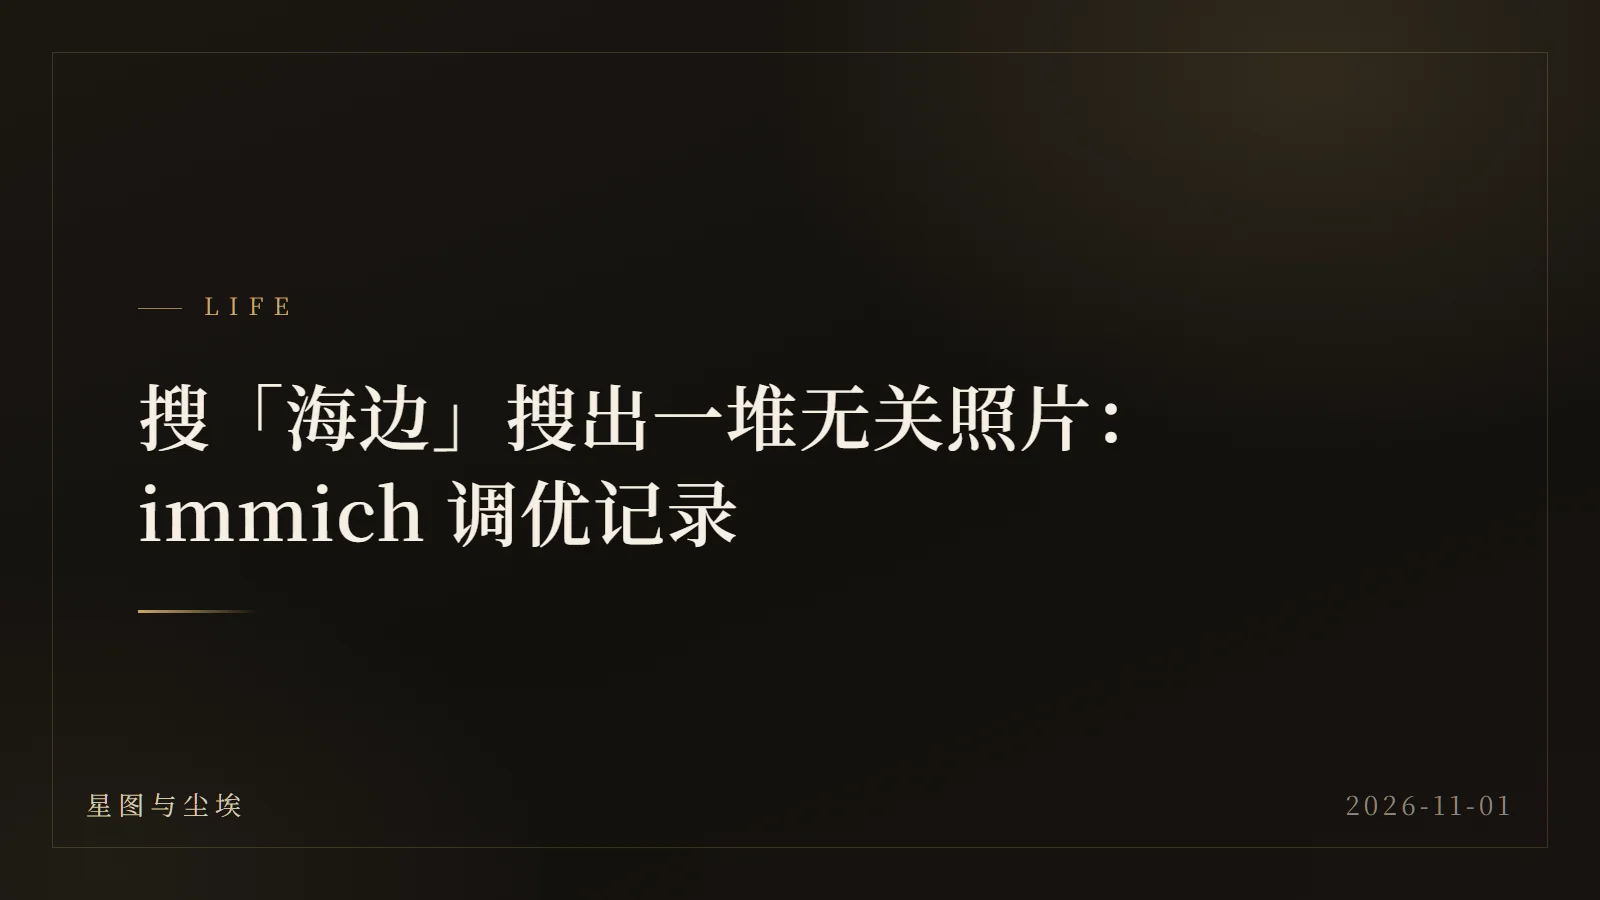
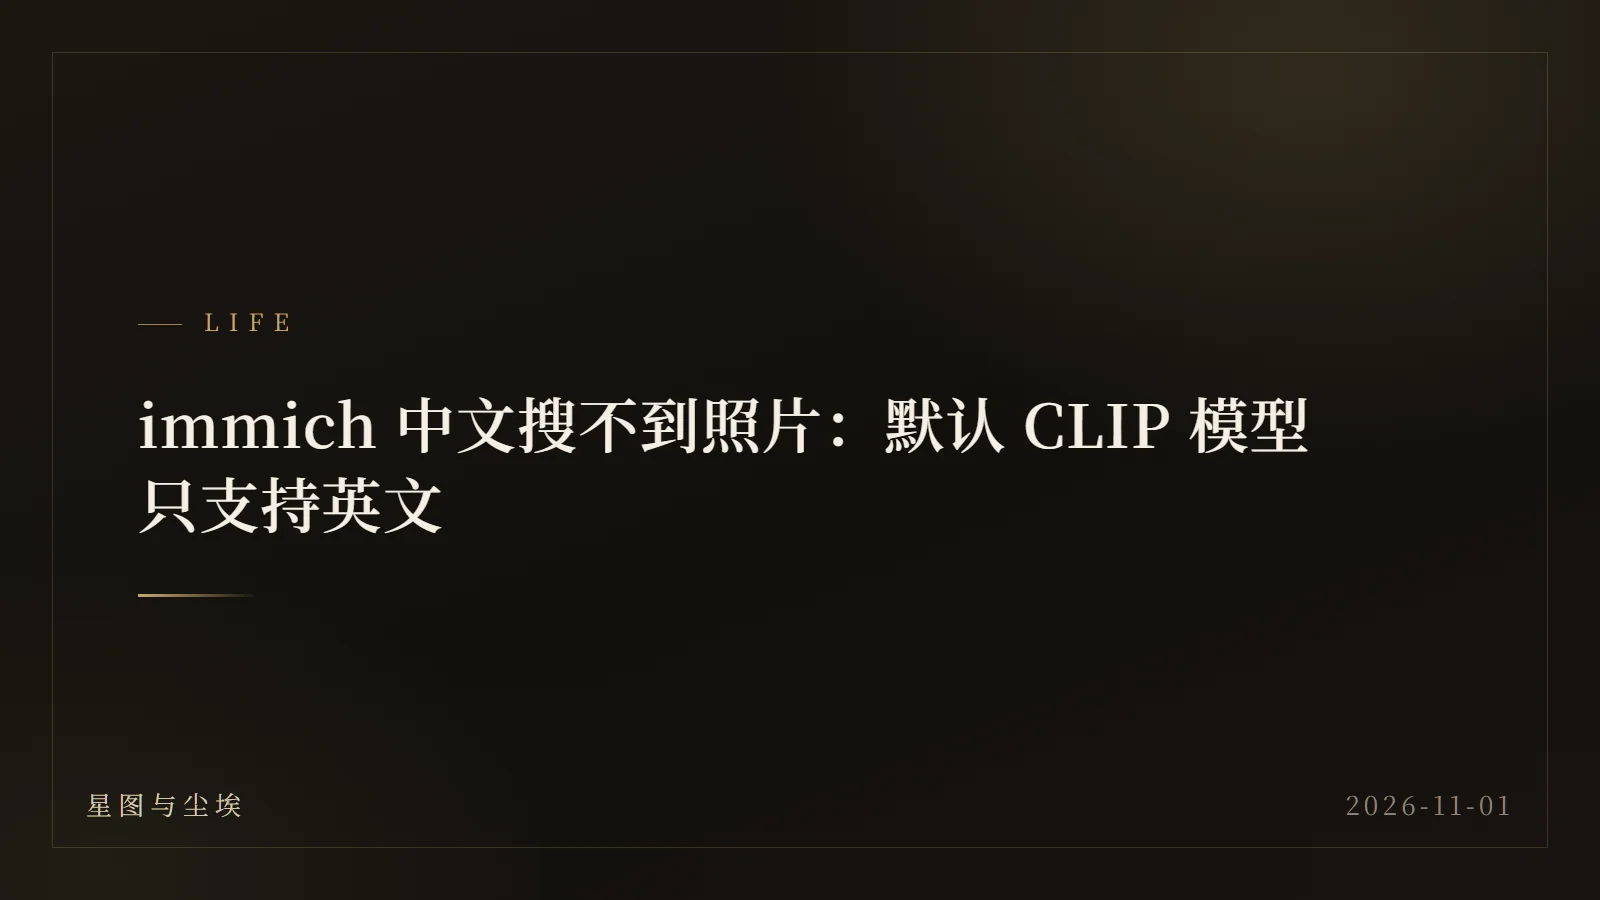
content: 重写《immich 中文搜不到照片》聚焦 CLIP 模型语言限制

Changed region(s): [[0.0625, 0.4044, 0.8125, 0.6222], [0.125, 0.3111, 0.1875, 0.3733], [0.0938, 0.6533, 0.1562, 0.6844]]

diff --git a/content/posts/life/immich-tuning-2026-11-01/index.md b/content/posts/life/immich-tuning-2026-11-01/index.md
@@ -1,88 +1,77 @@
 +++
-title = '搜「海边」搜出一堆无关照片：immich 调优记录'
-description = "4 核 N100 跑 immich：并发打满 CPU、硬件转码没开、CLIP 模型不懂中文。附官方基准和实测数据。"
+title = 'immich 中文搜不到照片：默认 CLIP 模型只支持英文'
+description = "中文搜「海边」全是无关照片，根因是默认加载的 CLIP 模型只有英文语料。换模型解决，附 4 核机器并发配置。"
 subtitle = ""
 date = 2026-11-01T23:10:00+08:00
 draft = false
 toc = true
 series = ['life']
-tags = ['immich', 'CLIP', 'OCR', '调优']
+tags = ['immich', 'CLIP', '中文搜索', '调优']
+featureimage = "featured.webp"
 +++
 
-## 起因
+中文搜「海边」出来一堆无关照片。不是索引没建好，不是中文分词有问题——**immich 默认加载的 CLIP 模型只支持英文**。
 
-手机传照片慢，搜「海边」出来一堆无关照片。查完发现两件事是同一个背景：4 核小机器被塞了太多活。
+`ViT-B-32__openai` 是 2021 年的原始 CLIP，训练语料纯英文。中文查询传进去，输出的向量本身就没有意义，检索结果自然是随机的。
 
-## 一、并发：默认值是为大机器准备的
+## 三秒自证
 
-`load average 30.51`，4 核，CPU 空闲 0%。数据库里的并发：
+同一个词，英文搜 `beach` 准确，中文搜「海边」混乱——即可判定为模型语言问题，与索引、标签、数据库无关。不需要翻日志。
 
-| 队列 | 原值 | immich 默认 | 改成 |
-|---|---|---|---|
-| faceDetection | 5 | 2 | 1 |
-| smartSearch | 5 | 2 | 1 |
-| **metadataExtraction** | 5 | 5 | **2** |
-| ocr | 4 | 1 | 1 |
+## 换模型
 
-隐蔽的一层：ML 容器只有 1 个 gunicorn worker，但内部开了 **24 个线程**（ONNX 每个模型各一套线程池）。加 `OMP_NUM_THREADS=3` 后降到 18。
+| 模型 | 中文 Recall | 单张耗时 | 维度 | 重建速度 |
+| --- | --- | --- | --- | --- |
+| nllb-clip-large-siglip | 79.7% | 75 ms | 768 | — |
+| XLM-Roberta-Large-ViT-H-14 | 75.22% | 39 ms | 1024 | — |
+| nllb-clip-base-siglip | 74.8% | 15 ms | 768 | 6.4 张/分 |
+| **XLM-Roberta-Base-ViT-B-32** | 65.7% | 3.2 ms | 512 | **43.7 张/分** |
 
-效果：缩略图 **5 张/分钟 → 54 张/分钟**，postgres 占用 65% → 1.2%。真正起作用的是 `metadataExtraction 5→2`。
+选最后一行：Recall 比最优模型低 14 个百分点，但全库重建 30 小时，对照组是 207 小时。
 
-## 二、硬件转码：设备给了，阀门没开
+两个实施细节：
 
-宿主机有 `/dev/dri/renderD128`，但容器没传。补上：
+1. **维度不用手工改**。当前表是 `vector(512)`，nllb 系列是 768 维，immich 会自动执行 `ALTER`（日志中可见 `Updating database CLIP dimension size`）。
+2. **慢 6.8 倍是可解释的**。nllb 输入 384px 对 224px（像素 2.9 倍），加 768 维索引（1.5 倍），理论 4.4 倍，实测 4.7 倍。
+
+换完中文搜索可用。
+
+## 顺带：上传慢
+
+同一台机器上还有第二个问题：手机上传慢到每分钟 5 张。`load average 30.51`，4 核，CPU 空闲 0%——瓶颈在缩略图生成任务的并发，不在网络。
+
+| 队列 | 原值 | immich 默认 | 改为 |
+| --- | --- | --- | --- |
+| `metadataExtraction` | 5 | 5 | **2** |
+| `faceDetection` | 5 | 2 | 1 |
+| `smartSearch` | 5 | 2 | 1 |
+| `ocr` | 4 | 1 | 1 |
+
+ML 容器只有 1 个 gunicorn worker，但内部开了 24 个线程（ONNX 为每个模型各建一套线程池），加 `OMP_NUM_THREADS=3` 后降到 18。
+
+结果：缩略图 **5 张/分钟 → 54 张/分钟**，postgres 占用 **65% → 1.2%**。
+
+**真正起作用的只有 `metadataExtraction` 从 5 降到 2**，其余三项是配合。降并发反而更快，省下的不是算力，是数据库写冲突——`load average 30.51` 而吞吐只有 5 张/分钟，就是线程互相抢占、postgres 卡在锁等待上的直接证据。
+
+## 硬件转码：设备接了，开关没开
+
+宿主机有 `/dev/dri/renderD128`，容器没传入。补齐：
 
 ```yaml
     devices: ["/dev/dri:/dev/dri"]
-    group_add: ["44", "992"]     # 写组名会报错，必须用数字 GID
+    group_add: ["44", "992"]     # 必须写数字 GID，写组名会报错
 ```
 
-验证通路：
+`ffmpeg.accel` 默认是 `Disabled`，还要在 **管理 → 设置 → 视频转码 → 硬件加速** 手动打开。这个配置项不在 `transcode` 下面，`transcode` 只是 `ffmpeg` 的内部字段。
 
-```bash
-ffmpeg -f lavfi -i testsrc -c:v h264_qsv -f null -
-# libva: va_openDriver() returns 0；退出码 0
-```
+## 4 核机器配置清单
 
-但 `ffmpeg.accel` 默认是 `Disabled`，还要在 **管理 → 设置 → 视频转码 → 硬件加速** 里打开。
-
-> 我一开始以为这个 key 在 `transcode` 下面，挖了源码才发现 `transcode` 是 `ffmpeg` 内部的字段。
-
-## 三、搜索不准：CLIP 模型不懂中文
-
-日志显示加载 `ViT-B-32__openai`——2021 年的原始 CLIP，纯英文训练。
-
-**自证方法**：英文搜 "beach" 准确、中文搜「海边」乱 → 100% 是模型语言问题，不用查索引。
-
-中文 Recall（官方基准）与实测：
-
-| 模型 | Recall | 耗时 | 维度 | 重建速度 |
-|---|---|---|---|---|
-| nllb-clip-large-siglip | 79.7% | 75ms | 768 | — |
-| XLM-Roberta-Large-ViT-H-14 | 75.22% | 39ms | 1024 | — |
-| nllb-clip-base-siglip | 74.8% | 15ms | 768 | 6.4 张/分 |
-| **XLM-Roberta-Base-ViT-B-32** | 65.7% | 3.2ms | 512 | **43.7 张/分** |
-
-两个坑：
-
-1. **维度**：表是 `vector(512)`，nllb 是 768 维。但 immich 会自动 `ALTER`（日志有 `Updating database CLIP dimension size`），不用手工改。
-2. **速度**：nllb 慢 6.8 倍。原因 384px vs 224px（像素 2.9 倍）+ 768 维索引（1.5 倍），理论 4.4 倍，实测 4.7 倍，对得上。
-
-最终选 65.7% 那个：质量差 9 点，但重建 30 小时 vs 207 小时。
-
-## 四、OCR：能搜图里的字
-
-已处理 59,946 张（75%）。搜索用 pg_trgm 模糊匹配：
-
-```sql
-f_unaccent(ocr_search.text) %>> f_unaccent(query)
-```
-
-实测命中：订阅 651 / Shorts 249 / 梦露 82 / 海边 60 / 5G 16,129（高频词等于没有）。中文可用，但识别错误会传下去（抽样有 `RUEICGE`、`③@Lii-31` 这种乱码）。这版只有 `PP-OCRv5_mobile`，更好的 v6 要 immich 3.3.0+。
-
-## 教训
-
-1. **默认并发是为服务器定的**，4 核上会把 CPU 打满，症状却表现为"上传慢"。
-2. **降并发反而快 10 倍**——省下的不是算力，是 postgres 写冲突。
-3. **「英文准中文乱」是模型语言问题的标准指纹**，换个语言搜一次就能定位。
-4. **三处靠读源码才查对**：`accel` 的位置、队列默认值、OCR 匹配方式。印象会骗人。
+| 项目 | 默认值 | 4 核建议 |
+| --- | --- | --- |
+| `metadataExtraction` 并发 | 5 | **2** |
+| `faceDetection` 并发 | 2 | 1 |
+| `smartSearch` 并发 | 2 | 1 |
+| `OMP_NUM_THREADS` | 未设置 | **3** |
+| 硬件转码设备 | 未传入 | `/dev/dri` |
+| `ffmpeg.accel` | `Disabled` | 开启 |
+| CLIP 模型 | `ViT-B-32__openai` | `XLM-Roberta-Base-ViT-B-32` |
